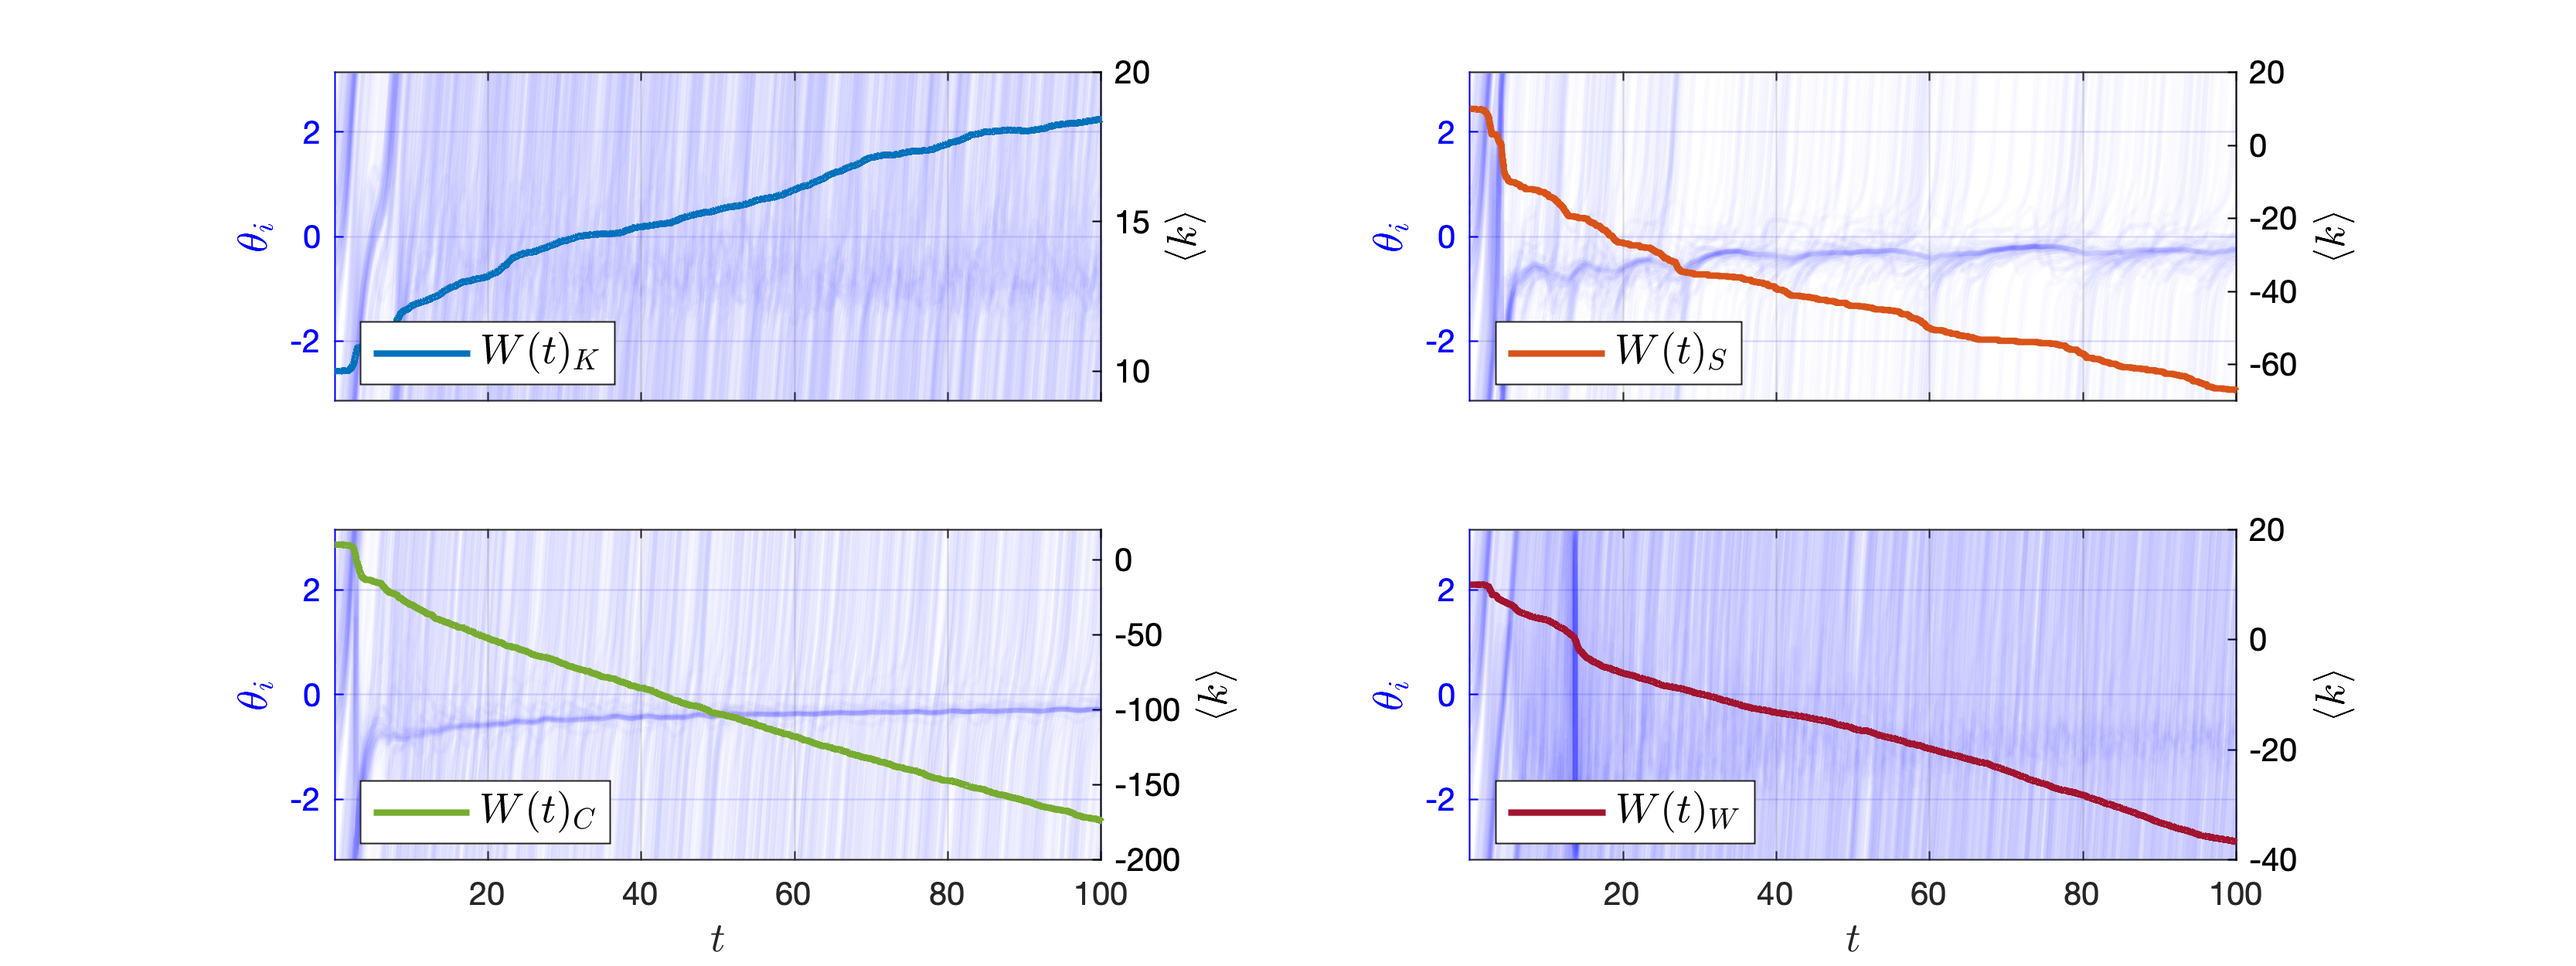
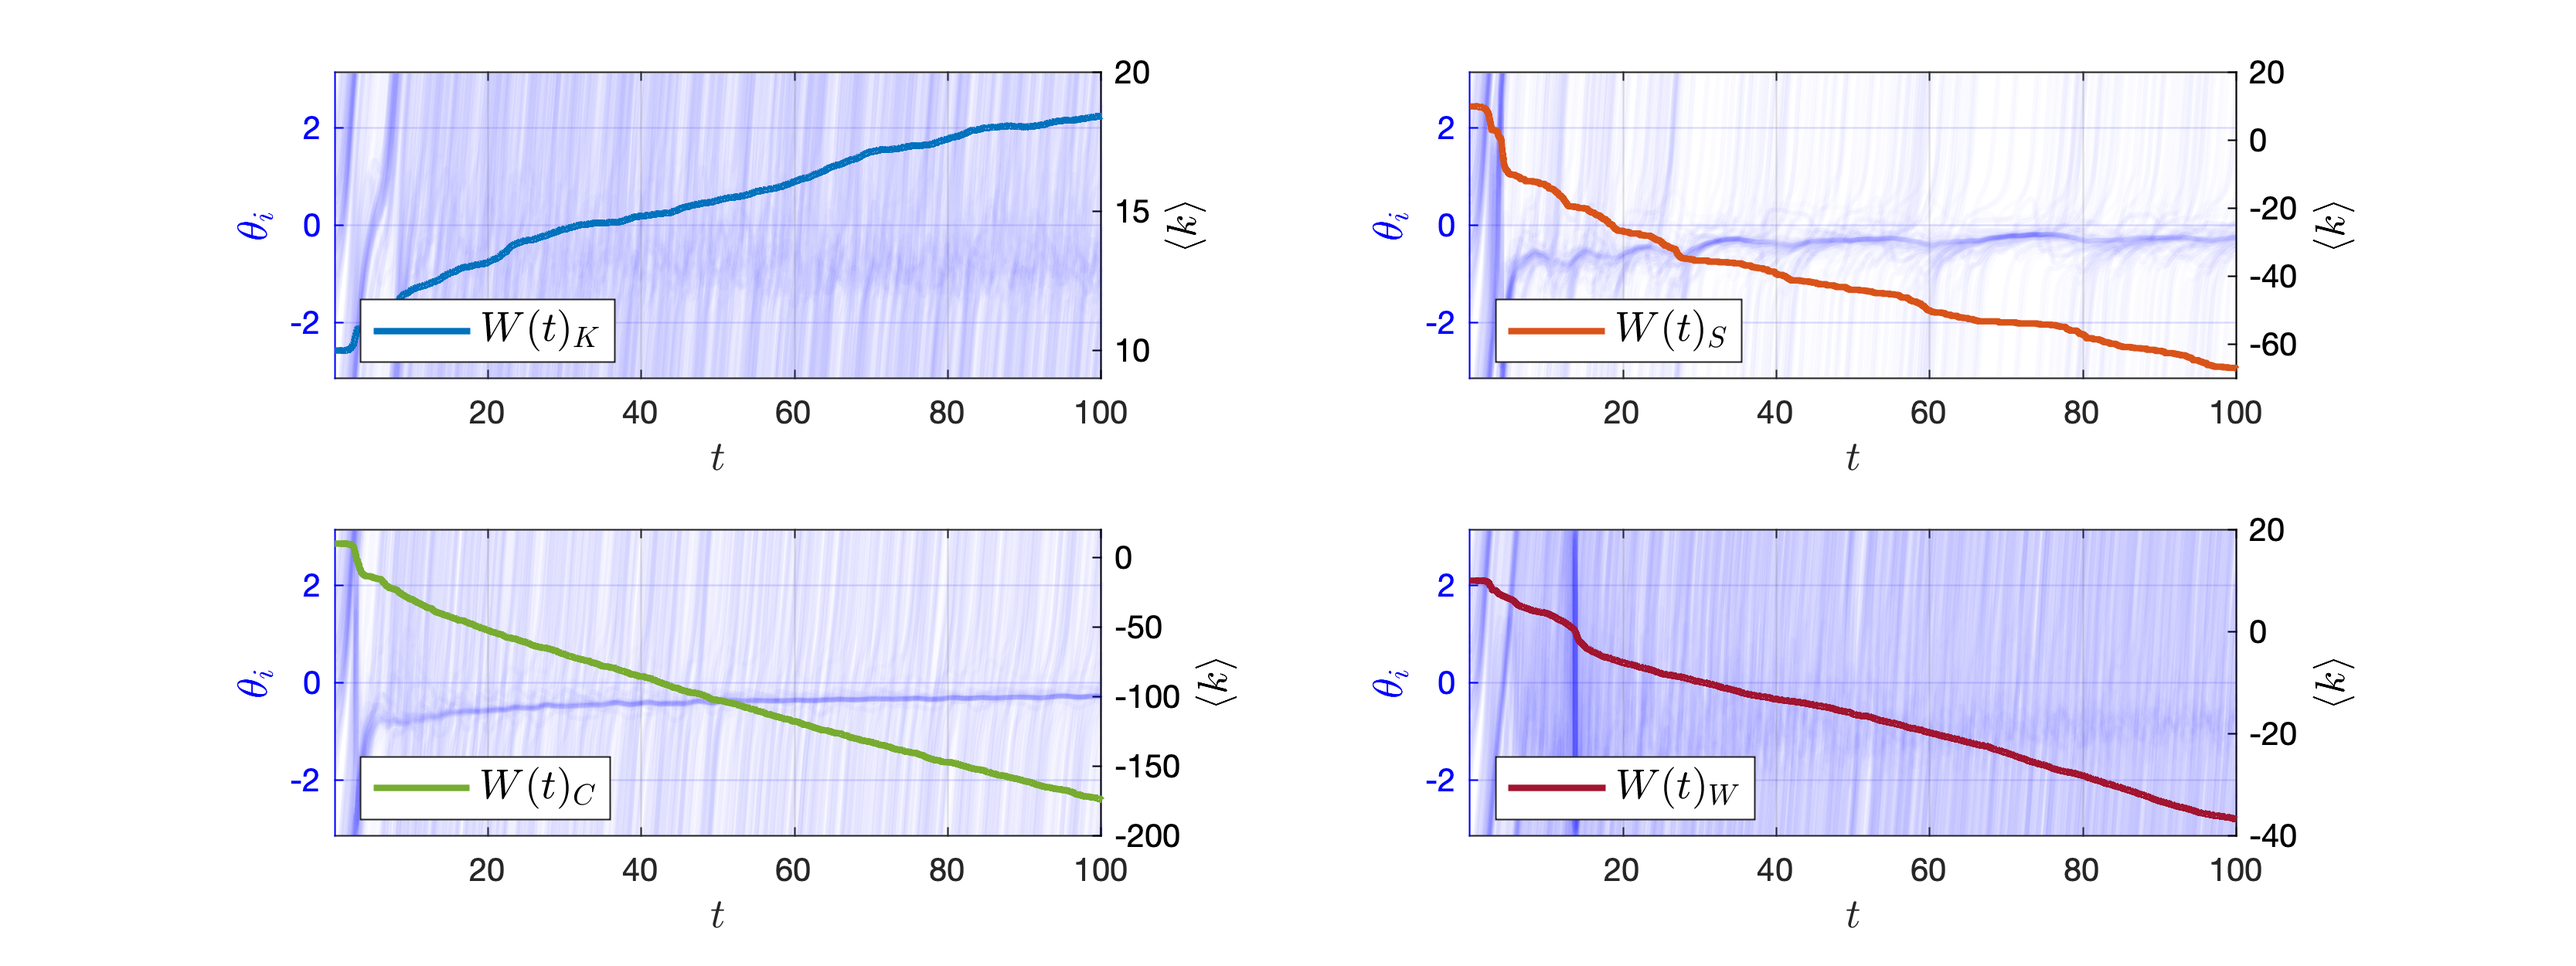
on our way of finding SS

diff --git a/Full scale simulations/Exploring_synaptic_plasticity.m b/Full scale simulations/Exploring_synaptic_plasticity.m
@@ -41,7 +41,7 @@ colors = ["#0072BD", "#D95319", "#77AC30", "#A2142F"];
 for i = 1:4
     name = winnames(i);
     plastopts = struct('SP', true, 'window', str2func(name), 'SS', false, 'IP', false);
-    [t, thetas_full, K, Kmeans] = DOPRI_simulatenetwork_adaptive(tnow,tend,IC,h,pars,plastopts);
+    [t, thetas_full, ~, Kmeans] = DOPRI_simulatenetwork_adaptive(tnow,tend,IC,h,pars,plastopts);
     drawthetas = spikesNaN(thetas_full);
     
     imrow(i) = subplot(2,2,i);
@@ -67,7 +67,21 @@ print(f_noSS, '../Figures/LearningWithoutScaling.png', '-dpng', '-r300')
 close(f_noSS)
 
 
+%% Adding synaptic scaling:
+plastopts = struct('SP', true, 'window', @Kempter1999Window, 'SS', true, 'IP', false);
+[t, thetas_full, K, Kmeans] = DOPRI_simulatenetwork_adaptive(tnow,tend,IC,h,pars,plastopts);
+drawthetas = spikesNaN(thetas_full);
 
+figure; hold on; box on;
+yyaxis left
+plot(t, drawthetas, '-', 'LineWidth', 1.5, 'Color', [0, 0, 1, 0.01], 'HandleVisibility', 'off')
+ylabel('$\theta_i$','Interpreter','latex', 'FontSize', labelfont)
+ylim([-pi, pi]);
 
+yyaxis right
+plot(t, Kmeans, 'LineWidth', 2, 'Color', colors(i))
+ylabel('$\langle k \rangle$','Interpreter','latex', 'FontSize', labelfont)
 
+ax = gca; ax.YAxis(1).Color = [0, 0, 1]; ax.YAxis(2).Color = 'k';
+xlabel('$t$','Interpreter','latex', 'FontSize', labelfont)
 

diff --git a/Functions/DOPRI_simulatenetwork_adaptive.m b/Functions/DOPRI_simulatenetwork_adaptive.m
@@ -50,7 +50,7 @@ function [tout, xout, K, Kmeans, info] = DOPRI_simulatenetwork_adaptive(ta,tb,x0
             idx = sub2ind(size(dW),combos(1,:),combos(2,:));
             K(idx) = K(idx) + dW(idx);
             if synaptic_scaling
-                toimplement = 0;
+                K = K * N * Kmeans(i) ./ sum(K,1);
             end
         end
         
